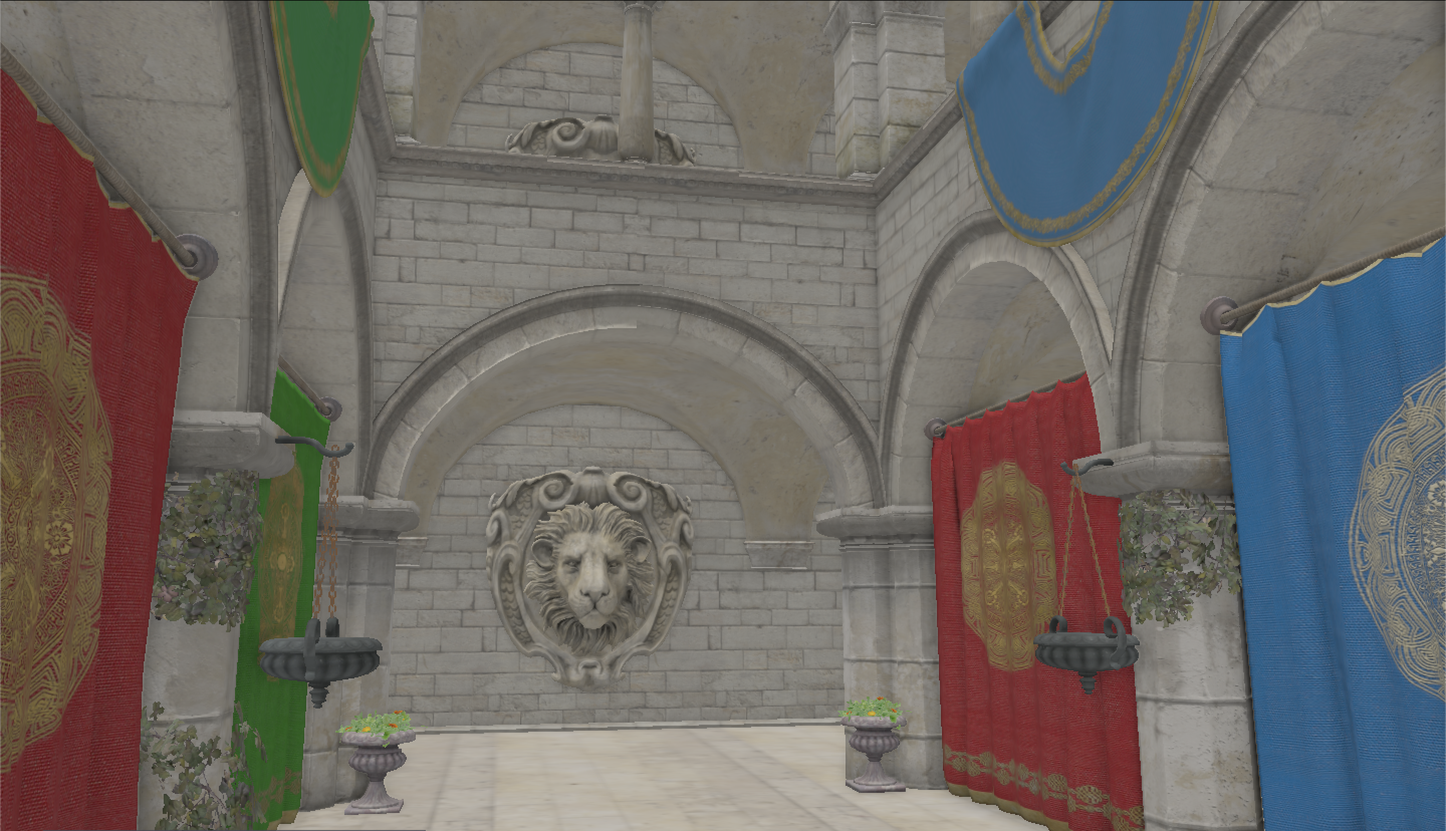
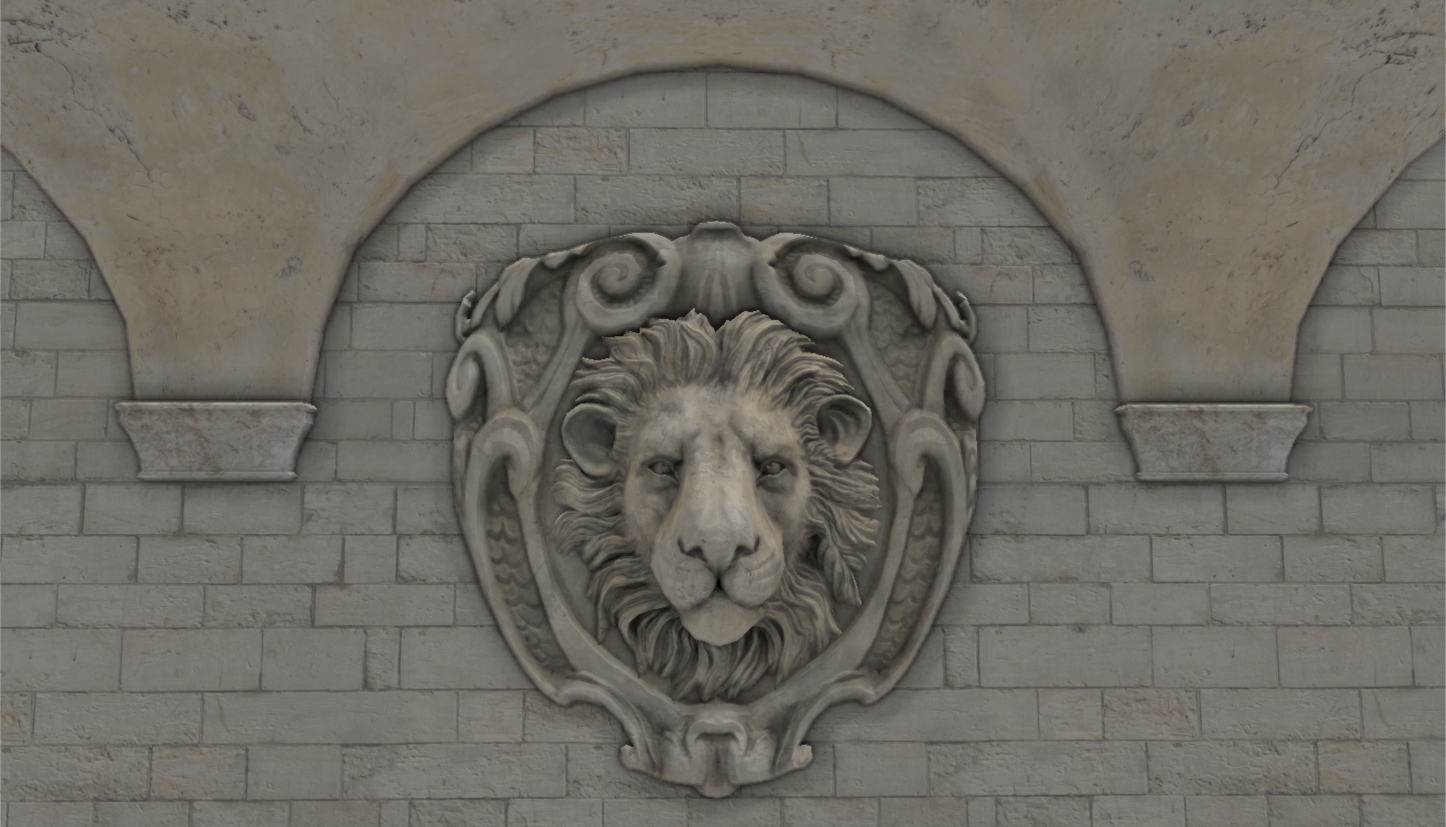
refactor(ssao): update SSAO kernel size and bias for better visual effect

diff --git a/src/config/config.hpp b/src/config/config.hpp
@@ -50,9 +50,9 @@ constexpr float SHADOW_PERSPECTIVE_FAR{25.0f};
 constexpr uint32_t SHADOW_UBO_BINDING{2};
 constexpr auto SHADOW_UBO_BLOCK_NAME = "ShadowBlock";
 // SSAO
-constexpr int SSAO_KERNEL_SIZE{16};
+constexpr int SSAO_KERNEL_SIZE{32};
 constexpr int SSAO_NOISE_TEXTURE_SIZE{4};
-constexpr float SSAO_RADIUS{1.5f};
+constexpr float SSAO_RADIUS{0.5f};
 constexpr float SSAO_BIAS{0.025f};
 constexpr uint32_t SSAO_UBO_BINDING{3};
 constexpr auto SSAO_UBO_BLOCK_NAME = "SSAOBlock";
